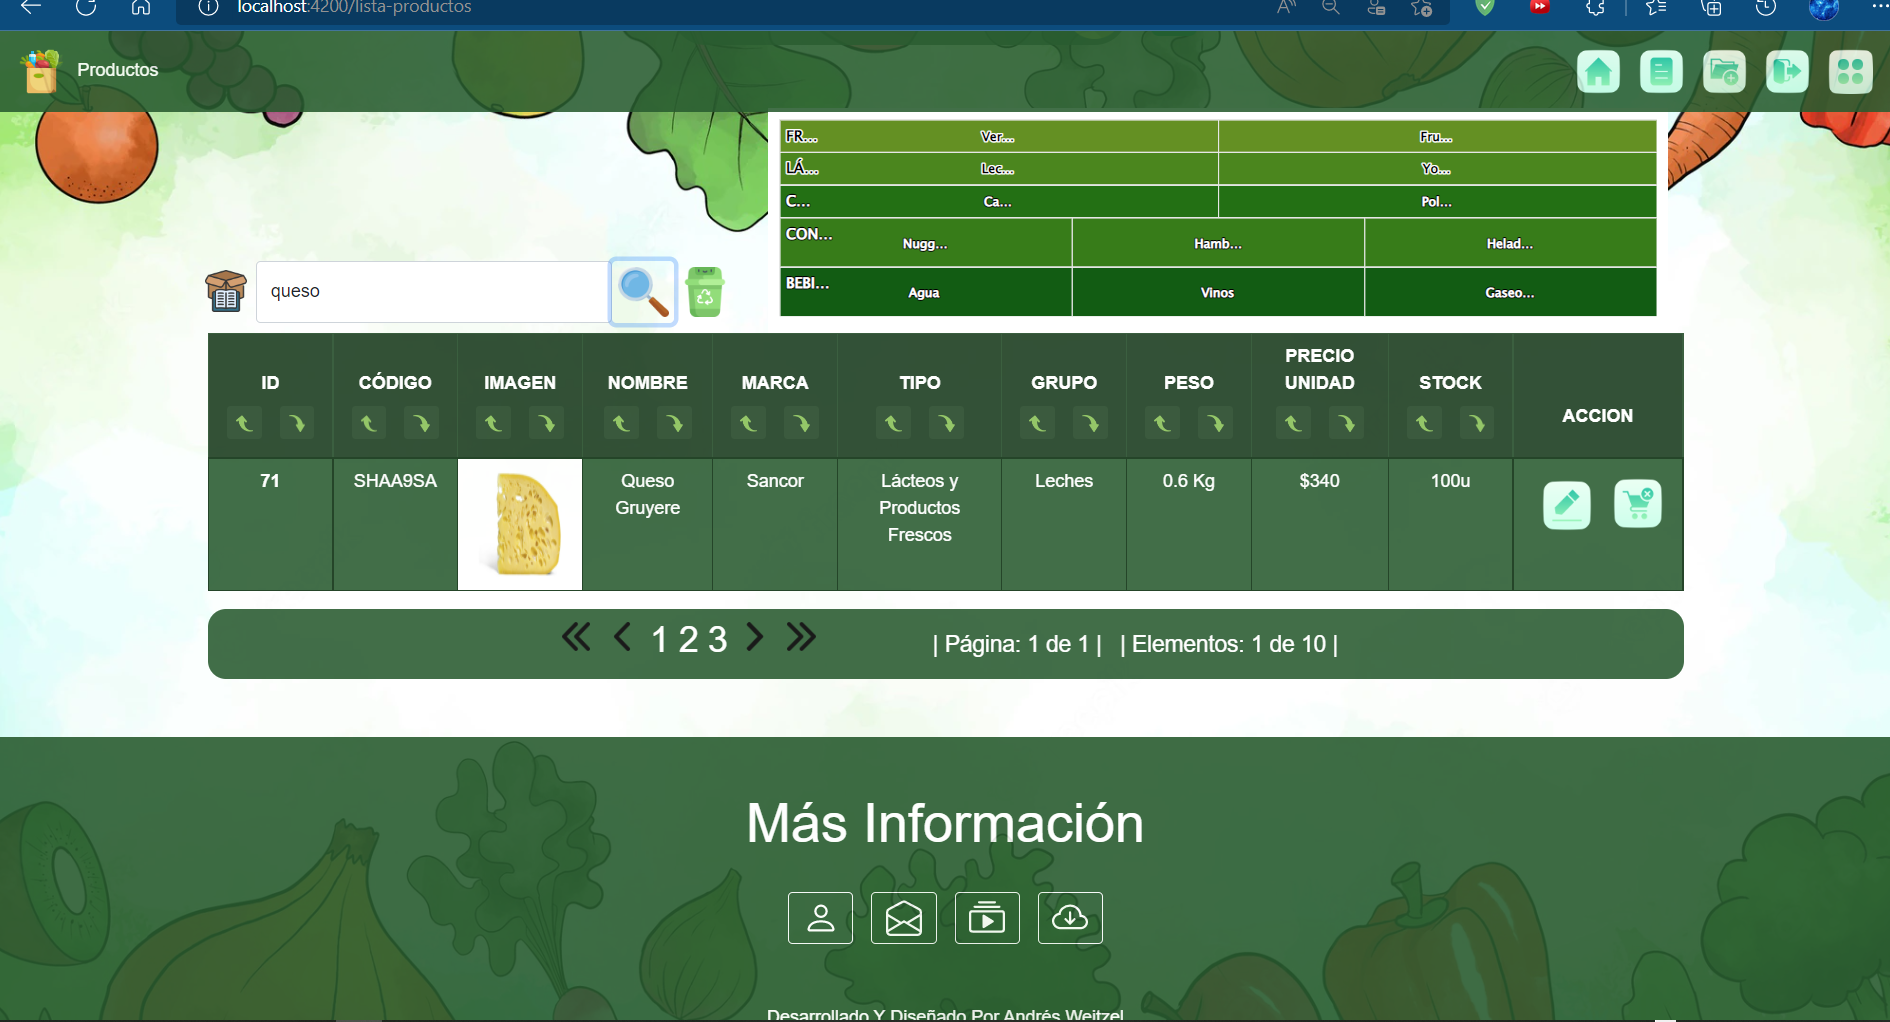
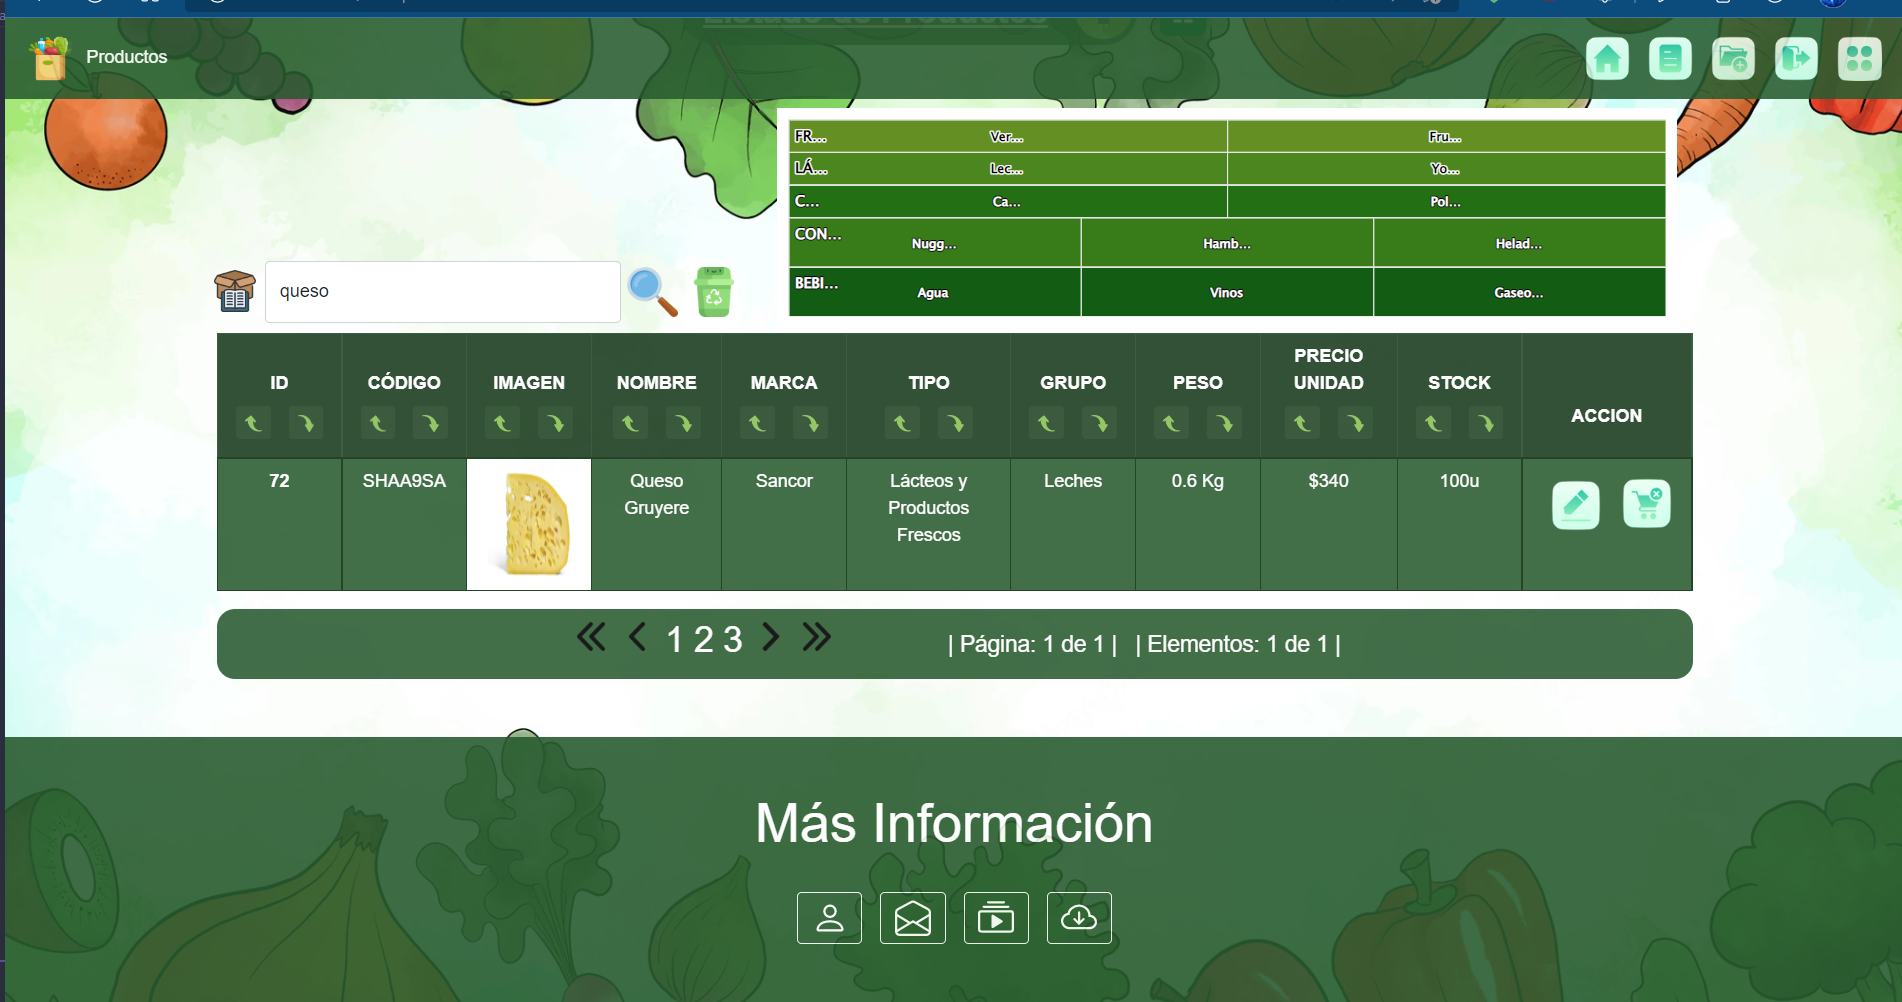
Updated Filter and Pagination

diff --git a/src/app/pages/supermercado/lista-productos/lista-productos.component.ts b/src/app/pages/supermercado/lista-productos/lista-productos.component.ts
@@ -138,8 +138,6 @@ listarProductos(){
       this.nroCurrentElements = data.numberOfElements;
       this.nroTotalElements = data.totalElements;
 
-
-      console.log(data);
     },
     err => {
 
@@ -165,7 +163,7 @@ listarProductosFilter(){
       this.isLastPage = data.last;
       this.totalPages = data.totalPages;
       this.nroCurrentElements = data.numberOfElements;
-      this.nroTotalElements = this.nroElements * this.totalPages;
+      this.nroTotalElements = data.totalElements;
 
 
       //console.log(this.productos);
